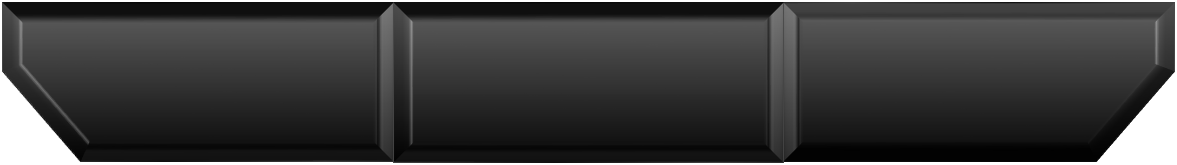
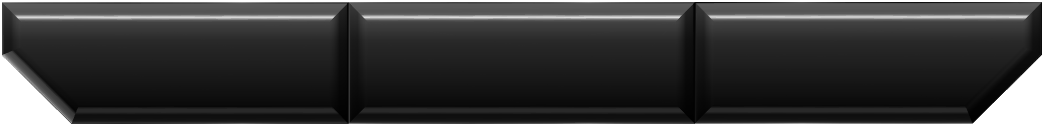
update

diff --git a/Personal JavaFX Snake/src/com/EudyContreras/Snake/FrameWork/text.css b/Personal JavaFX Snake/src/com/EudyContreras/Snake/FrameWork/text.css
@@ -26,7 +26,7 @@
 }
 
 #MainScore{
-        -fx-fill: linear-gradient(red, red);
+        -fx-fill: linear-gradient(red, orange);
 }
 
 #ScoreBoard{

diff --git a/Personal JavaFX Snake/src/com/EudyContreras/Snake/HUDElements/ScoreKeeper.java b/Personal JavaFX Snake/src/com/EudyContreras/Snake/HUDElements/ScoreKeeper.java
@@ -31,7 +31,6 @@ import javafx.scene.text.Text;
 public class ScoreKeeper extends AbstractHudElement{
 
 
-	private DropShadow dropShadowOne;
 	private DropShadow dropShadowTwo;
 	private ImagePattern singlePlayer;
 	private ImagePattern multipLayer;
@@ -85,67 +84,57 @@ public class ScoreKeeper extends AbstractHudElement{
 	 * are used by this class and all the sub elements of those texts.
 	 */
 	private void setupText(){
+		this.yOne = GameManager.ScaleY( 10);
+		this.yTwo = GameManager.ScaleY(0);
+		this.baseY = yTwo+GameManager.ScaleY(5);
 		this.timer.setLocation(GameSettings.WIDTH/2 - timer.getWidth()/2-GameManager.ScaleX(80), GameManager.ScaleX(15));
 		this.countText.setX(xTwo + (widthOne*0.52));
 		this.countText.setY(yOne+GameManager.ScaleY(45));
 		this.countText.setFont( Font.font(null,FontWeight.EXTRA_BOLD, GameManager.ScaleX(38)));
-        this.dropShadowOne = new DropShadow();
         this.dropShadowTwo = new DropShadow();
-        this.dropShadowOne.setColor(Color.DODGERBLUE);
-        this.dropShadowOne.setRadius(20);
-        this.dropShadowOne.setSpread(0.1);
-        this.dropShadowOne.setBlurType(BlurType.TWO_PASS_BOX);
         this.dropShadowTwo.setColor(Color.RED);
         this.dropShadowTwo.setRadius(20);
         this.dropShadowTwo.setSpread(0.1);
         this.dropShadowTwo.setBlurType(BlurType.TWO_PASS_BOX);
         this.countText.setEffect(dropShadowTwo);
         this.countText.setId("MainScore");
+		this.board.setY(yTwo);
+		this.apple.setY(yOne + GameManager.ScaleY(5));
+		this.countText.setY(yOne+GameManager.ScaleY(48));
         this.singlePlayerInfo();
 
 	}
 	public void multiplayerInfo(){
 		APPLE_COUNT = count;
-		this.yOne = GameManager.ScaleY( 10);
-		this.xTwo = GameSettings.WIDTH / 2 - GameManager.ScaleX( 800 / 2);
-		this.yTwo = GameManager.ScaleY(0);
-		this.baseY = yTwo;
-		this.widthOne = GameManager.ScaleX(800);
-		this.heightOne = GameManager.ScaleY(90);
+		this.xTwo = GameSettings.WIDTH / 2 - GameManager.ScaleX( 690 / 2);
+		this.widthOne = GameManager.ScaleX(690);
+		this.heightOne = GameManager.ScaleY(85);
 		this.board.setFill(multipLayer);
 		this.board.setX(xTwo);
-		this.board.setY(yTwo);
 		this.board.setWidth(widthOne);
 		this.board.setHeight(heightOne);
-		this.apple.setX(xTwo + GameManager.ScaleX(700)*0.50);
-		this.apple.setY(yOne + GameManager.ScaleY(5));
+		this.apple.setX(xTwo + GameManager.ScaleX(690)*0.43);
 		this.apple.setFitWidth(55 / GameLoader.ResolutionScaleX);
 		this.apple.setFitHeight(55 / GameLoader.ResolutionScaleY);
 		this.apple.setImage(GameImageBank.apple);
 		this.countText.setX(xTwo + (widthOne*0.51));
-		this.countText.setY(yOne+GameManager.ScaleY(48));
 		this.processCount();
 	}
+
 	public void singlePlayerInfo(){
 		this.initialAmount = 0;
-		this.yOne = GameManager.ScaleY( 10);
 		this.xTwo = GameSettings.WIDTH / 2 - GameManager.ScaleX( 800 / 2);
-		this.yTwo = GameManager.ScaleY(0);
-		this.baseY = yTwo;
 		this.widthOne = GameManager.ScaleX(800);
 		this.heightOne = GameManager.ScaleY(90);
 		this.board.setFill(singlePlayer);
 		this.board.setX(xTwo);
-		this.board.setY(yTwo);
 		this.board.setWidth(widthOne);
 		this.board.setHeight(heightOne);
 		this.apple.setX(xTwo + GameManager.ScaleX(700)*0.58);
-		this.apple.setY(yOne + GameManager.ScaleY(6));
 		this.apple.setFitWidth(55 / GameLoader.ResolutionScaleX);
 		this.apple.setFitHeight(55 / GameLoader.ResolutionScaleY);
 		this.apple.setImage(GameImageBank.apple_alt);
 		this.countText.setX(xTwo + (widthOne*0.58));
-		this.countText.setY(yOne+GameManager.ScaleY(48));
 	}
 	/**
 	 * Method which updates all the UI elements
@@ -181,21 +170,21 @@ public class ScoreKeeper extends AbstractHudElement{
 		yTwo = yTwo + swipeSpeed/GameManager.ScaleY;
 		yOne = yOne + swipeSpeed/GameManager.ScaleY;
 		if (swipeDown) {
-			swipeSpeed = 2.5f;
-			if (yTwo > GameManager.ScaleY(95)) {
+			swipeSpeed = 2.8f;
+			if (yTwo > GameManager.ScaleY(115)) {
 				swipeSpeed = 0;
 			}
 		}
 		if (swipeUp) {
-			swipeSpeed = -2.5f;
-			if (yTwo < baseY) {
+			swipeSpeed = -2.8f;
+			if (yTwo <= baseY) {
 				swipeSpeed = 0;
 			}
 		}
-//		board.setY(yTwo);
-//		this.apple.setY(yOne + GameManager.ScaleY(7));
-//		this.countText.setY(yOne+GameManager.ScaleY(48));
-//		this.timer.setLocation(GameSettings.WIDTH/2 - timer.getWidth()/2-GameManager.ScaleX(80), yOne + GameManager.ScaleX(13));
+		board.setY(yTwo);
+		this.apple.setY(yOne + GameManager.ScaleY(7));
+		this.countText.setY(yOne+GameManager.ScaleY(48));
+		this.timer.setLocation(GameSettings.WIDTH/2 - timer.getWidth()/2-GameManager.ScaleX(80), yOne + GameManager.ScaleX(13));
 	}
 	/**
 	 * Method which shows or hide the board
@@ -272,8 +261,8 @@ public class ScoreKeeper extends AbstractHudElement{
 		}
 		else {
 			if(!PlayerOne.DEAD && !PlayerTwo.DEAD && game.getStateID()!=GameStateID.GAME_MENU && game.getStateID()!=GameStateID.COUNT_DOWN){
-//			swipeUp();
-//			game.getGameHud().hideHUDCover();
+			swipeUp();
+			game.getGameHud().hideHUDCover();
 			}
 		}
 	}

diff --git a/Personal JavaFX Snake/src/com/EudyContreras/Snake/HUDElements/GameHud.java b/Personal JavaFX Snake/src/com/EudyContreras/Snake/HUDElements/GameHud.java
@@ -50,13 +50,13 @@ public class GameHud {
 		this.topHudBar.setTranslateX(x);
 		this.topHudBar.setTranslateY(y-GameManager.ScaleY(20));
 		this.bottomHudBar.setWidth(width);
-		this.bottomHudBar.setHeight(height+GameManager.ScaleY(80));
-		this.yTwo = GameSettings.HEIGHT-bottomHudBar.getHeight()+GameManager.ScaleY(40);
+		this.bottomHudBar.setHeight(height+GameManager.ScaleY(50));
+		this.yTwo = GameSettings.HEIGHT-bottomHudBar.getHeight()+GameManager.ScaleY(20);
 		this.bottomHudBar.setTranslateX(x);
 		this.bottomHudBar.setTranslateY(yTwo);
 		this.bottomHudBar.setRotate(180);
 		this.mainBar.setWidth(GameSettings.WIDTH+2);
-		this.mainBar.setHeight(height*0.8);
+		this.mainBar.setHeight(height-GameManager.ScaleY(20));
 		this.mainBar.setTranslateX(-2);
 		this.mainBar.setTranslateY(0);
 		this.mainBar.setEffect(shadow);
@@ -64,8 +64,8 @@ public class GameHud {
 		this.topHudBar.setFill(new ImagePattern(GameImageBank.hud_bar_cover));
 		this.bottomHudBar.setFill(new ImagePattern(GameImageBank.hud_bar_cover));
 		game.getTenthLayer().getChildren().add(mainBar);
-//		game.getFourTeenthLayer().getChildren().add(topHudBar);
-//		game.getFourTeenthLayer().getChildren().add(bottomHudBar);
+		game.getFourTeenthLayer().getChildren().add(topHudBar);
+		game.getFourTeenthLayer().getChildren().add(bottomHudBar);
 	}
 	/**
 	 * Method which updates the movement of
@@ -76,21 +76,21 @@ public class GameHud {
 		yOne = yOne + swipeSpeedTop/GameManager.ScaleY;
 		yTwo = yTwo + swipeSpeedBottom/GameManager.ScaleY;
 		if (showHUDCover) {
-			swipeSpeedTop = 2.5;
-			if (yOne > mainBar.getTranslateY() - GameManager.ScaleY(15)) {
+			swipeSpeedTop = 2.8;
+			if (yOne > mainBar.getTranslateY() - GameManager.ScaleY(40)) {
 				swipeSpeedTop = 0;
 			}
-			swipeSpeedBottom = -3.5;
-			if (yTwo < GameSettings.HEIGHT-bottomHudBar.getHeight()+GameManager.ScaleY(40)) {
+			swipeSpeedBottom = -2.8;
+			if (yTwo < GameSettings.HEIGHT-bottomHudBar.getHeight()+GameManager.ScaleY(35)) {
 				swipeSpeedBottom = 0;
 			}
 		}
 		if (hideHUDCover) {
-			swipeSpeedTop = -2.55;
-			if (yOne < 0 - topHudBar.getHeight()) {
+			swipeSpeedTop = -2.8;
+			if (yOne < 0 - (topHudBar.getHeight()-GameManager.ScaleY(12))) {
 				swipeSpeedTop = 0;
 			}
-			swipeSpeedBottom = 3.5;
+			swipeSpeedBottom = 2.8;
 			if (yTwo > GameSettings.HEIGHT) {
 				swipeSpeedBottom = 0;
 			}

diff --git a/Personal JavaFX Snake/src/com/EudyContreras/Snake/ImageBanks/GameImageBank.java b/Personal JavaFX Snake/src/com/EudyContreras/Snake/ImageBanks/GameImageBank.java
@@ -114,7 +114,7 @@ public class GameImageBank {
 		public static final Image clipping_bar_h = ImageEffectUtility.GLOWING_RECTANGLE(Color.ORANGE, 0, 0.35, GameSettings.WIDTH*2,100);
 		public static final Image clipping_bar_v = ImageEffectUtility.GLOWING_RECTANGLE(Color.ORANGE, 0, 0.35, 100,GameSettings.HEIGHT*2);
 		public static final Image hud_bar_cover = new Image(ImageEffectUtility.loadResource("hud_bar_cover.png"));
-		public static final Image score_keeper_multiPlayer = new Image(ImageEffectUtility.loadResource("hud_bar_info.png"));
+		public static final Image score_keeper_multiPlayer = new Image(ImageEffectUtility.loadResource("hud_bar_info_thin.png"));
 		public static final Image score_keeper_singlePlayer = new Image(ImageEffectUtility.loadResource("hud_bar_info_red.png"));
 		public static final Image hud_timer = new Image(ImageEffectUtility.loadResource("hud_timer.png"));
 		public static final Image main_multiplayer_hud = new Image(ImageEffectUtility.loadResource("main_multiplayer_hud.png"));
@@ -144,7 +144,7 @@ public class GameImageBank {
 		public static final Image restart_button = new Image(ImageEffectUtility.loadResource("restart_button.png"));
 		public static final Image quit_button = new Image(ImageEffectUtility.loadResource("quit_button.png"));
 		public static final Image draw_game = new Image(ImageEffectUtility.loadResource("game_draw_board.png"));
-		public static final Image pause_menu = new Image(ImageEffectUtility.loadResource("pause_menu_panel_red.png"));
+		public static final Image pause_menu = new Image(ImageEffectUtility.loadResource("pause_menu_panel.png"));
 		public static final Image pause_continue = new Image(ImageEffectUtility.loadResource("pause_continue.png"));
 		public static final Image pause_restart = new Image(ImageEffectUtility.loadResource("pause_restart.png"));
 		public static final Image pause_main = new Image(ImageEffectUtility.loadResource("pause_main_menu.png"));

diff --git a/Personal JavaFX Snake/src/com/EudyContreras/Snake/HUDElements/GameOverScreen.java b/Personal JavaFX Snake/src/com/EudyContreras/Snake/HUDElements/GameOverScreen.java
@@ -103,10 +103,10 @@ public class GameOverScreen {
 		baseGameBoard.setImage(boardImage);
 		baseGameBoard.setY(GameSettings.HEIGHT / 2 - mainGameBoard.getFitHeight() / 2);
 		scoreLayer.setPrefSize(GameSettings.WIDTH, GameSettings.HEIGHT);
-		optionsBoard.setFitWidth(GameManager.ScaleX(800));
-		optionsBoard.setFitHeight((GameManager.ScaleY(450)/4));
-		continue_btt.setFitWidth(GameManager.ScaleX(240));
-		continue_btt.setFitHeight(GameManager.ScaleY(70));
+		optionsBoard.setFitWidth(GameManager.ScaleX(830));
+		optionsBoard.setFitHeight((GameManager.ScaleY(460)/4));
+		continue_btt.setFitWidth(GameManager.ScaleX(250));
+		continue_btt.setFitHeight(GameManager.ScaleY(80));
 		quitGame_btt.setFitWidth(continue_btt.getFitWidth());
 		quitGame_btt.setFitHeight(continue_btt.getFitHeight());
 		restart_btt.setFitWidth((continue_btt.getFitWidth()));

diff --git a/Personal JavaFX Snake/src/com/EudyContreras/Snake/HUDElements/VictoryScreen.java b/Personal JavaFX Snake/src/com/EudyContreras/Snake/HUDElements/VictoryScreen.java
@@ -530,8 +530,9 @@ public class VictoryScreen extends AbstractHudElement {
 	public void panIn() {
 		if (panIn) {
 			this.rOne = rOne + velROne;
-			this.widthOne += width * 0.02;
-			this.heightOne += height * 0.02;
+			this.velROne = velROne*.99;
+			this.widthOne += width * 0.011;
+			this.heightOne += height * 0.011;
 			this.mainGameBoard.setOpacity(1);
 			this.baseGameBoard.setFitWidth(widthOne);
 			this.baseGameBoard.setFitHeight(heightOne);
@@ -748,7 +749,7 @@ public class VictoryScreen extends AbstractHudElement {
 		widthOne = 1;
 		heightOne = 1;
 		opacityLevel = 0;
-		velROne = 17;
+		velROne = 30;
 		acceleration = 8.0f;
 		confirmXPosition = 0.002f;
 		baseGameBoard.setVisible(true);

diff --git a/Personal JavaFX Snake/src/com/EudyContreras/Snake/FrameWork/GameManager.java b/Personal JavaFX Snake/src/com/EudyContreras/Snake/FrameWork/GameManager.java
@@ -252,7 +252,7 @@ public class GameManager extends AbstractGameModel{
         healthBarOne = new HealthBarOne(this);
         healthBarTwo = new HealthBarTwo(this);
         pauseMenu = new PauseMenu(this,0,0,GameSettings.WIDTH,300);
-        gameHud = new GameHud(this, ScaleX(-5), ScaleY(-25), GameSettings.WIDTH + ScaleX(10), 100 / ScaleY);
+        gameHud = new GameHud(this, ScaleX(-5), ScaleY(-25), GameSettings.WIDTH + ScaleX(10), 115 / ScaleY);
         scoreKeeper = new ScoreKeeper(this, GameSettings.APPLE_COUNT);
         scoreBoardOne = new ScoreBoard("", this, healthBarOne.getX() + 110/ScaleX,
                 50/ScaleY, Color.rgb(255, 150, 0));

diff --git a/Personal JavaFX Snake/src/com/EudyContreras/Snake/FrameWork/GameSettings.java b/Personal JavaFX Snake/src/com/EudyContreras/Snake/FrameWork/GameSettings.java
@@ -20,7 +20,7 @@ public class GameSettings {
 	public static double FRAMECAP = 1.0 / 60.0;
 	public static double SIZE_SCALE = 1.0;
 	public static double FRAME_SCALE = 1.0f;
-	public static double MANUAL_SIZE_SCALE = 1.0;
+	public static double MANUAL_SIZE_SCALE = 1.5;
 
 	public static final int START_X = 1920;
 	public static final int START_Y = (int) (80/GameManager.ScaleY); //This number must be a whole number
